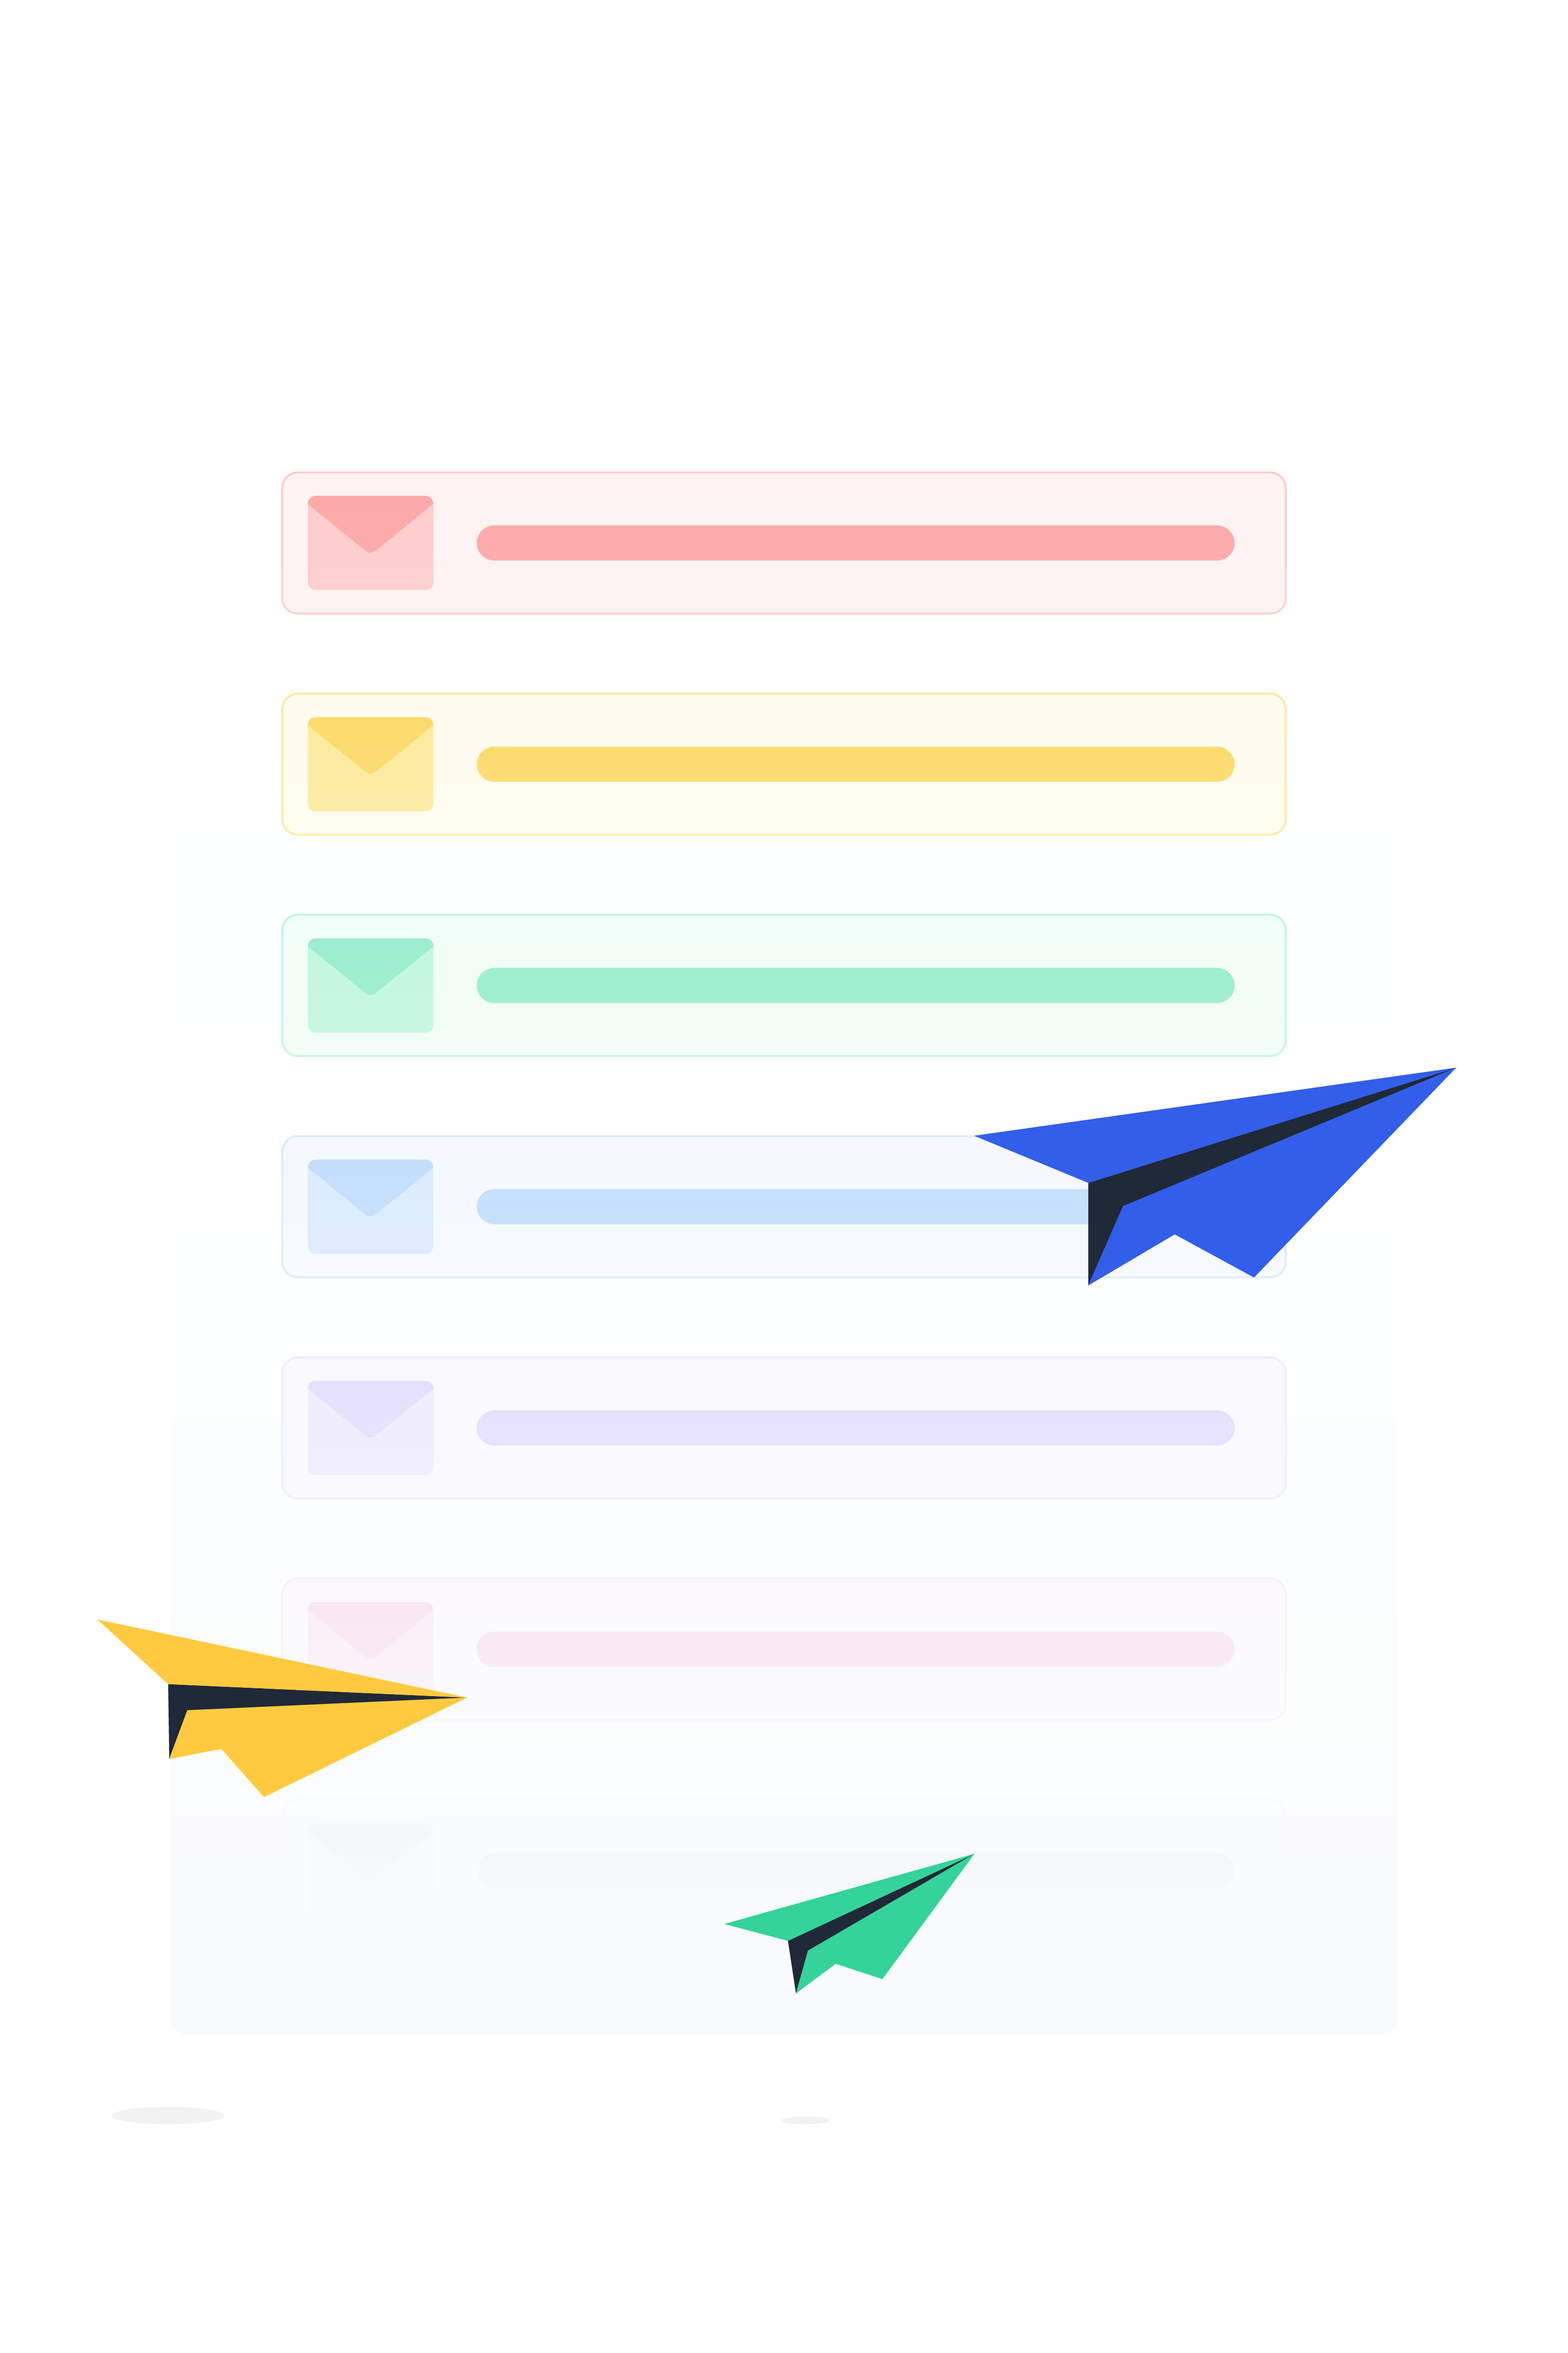
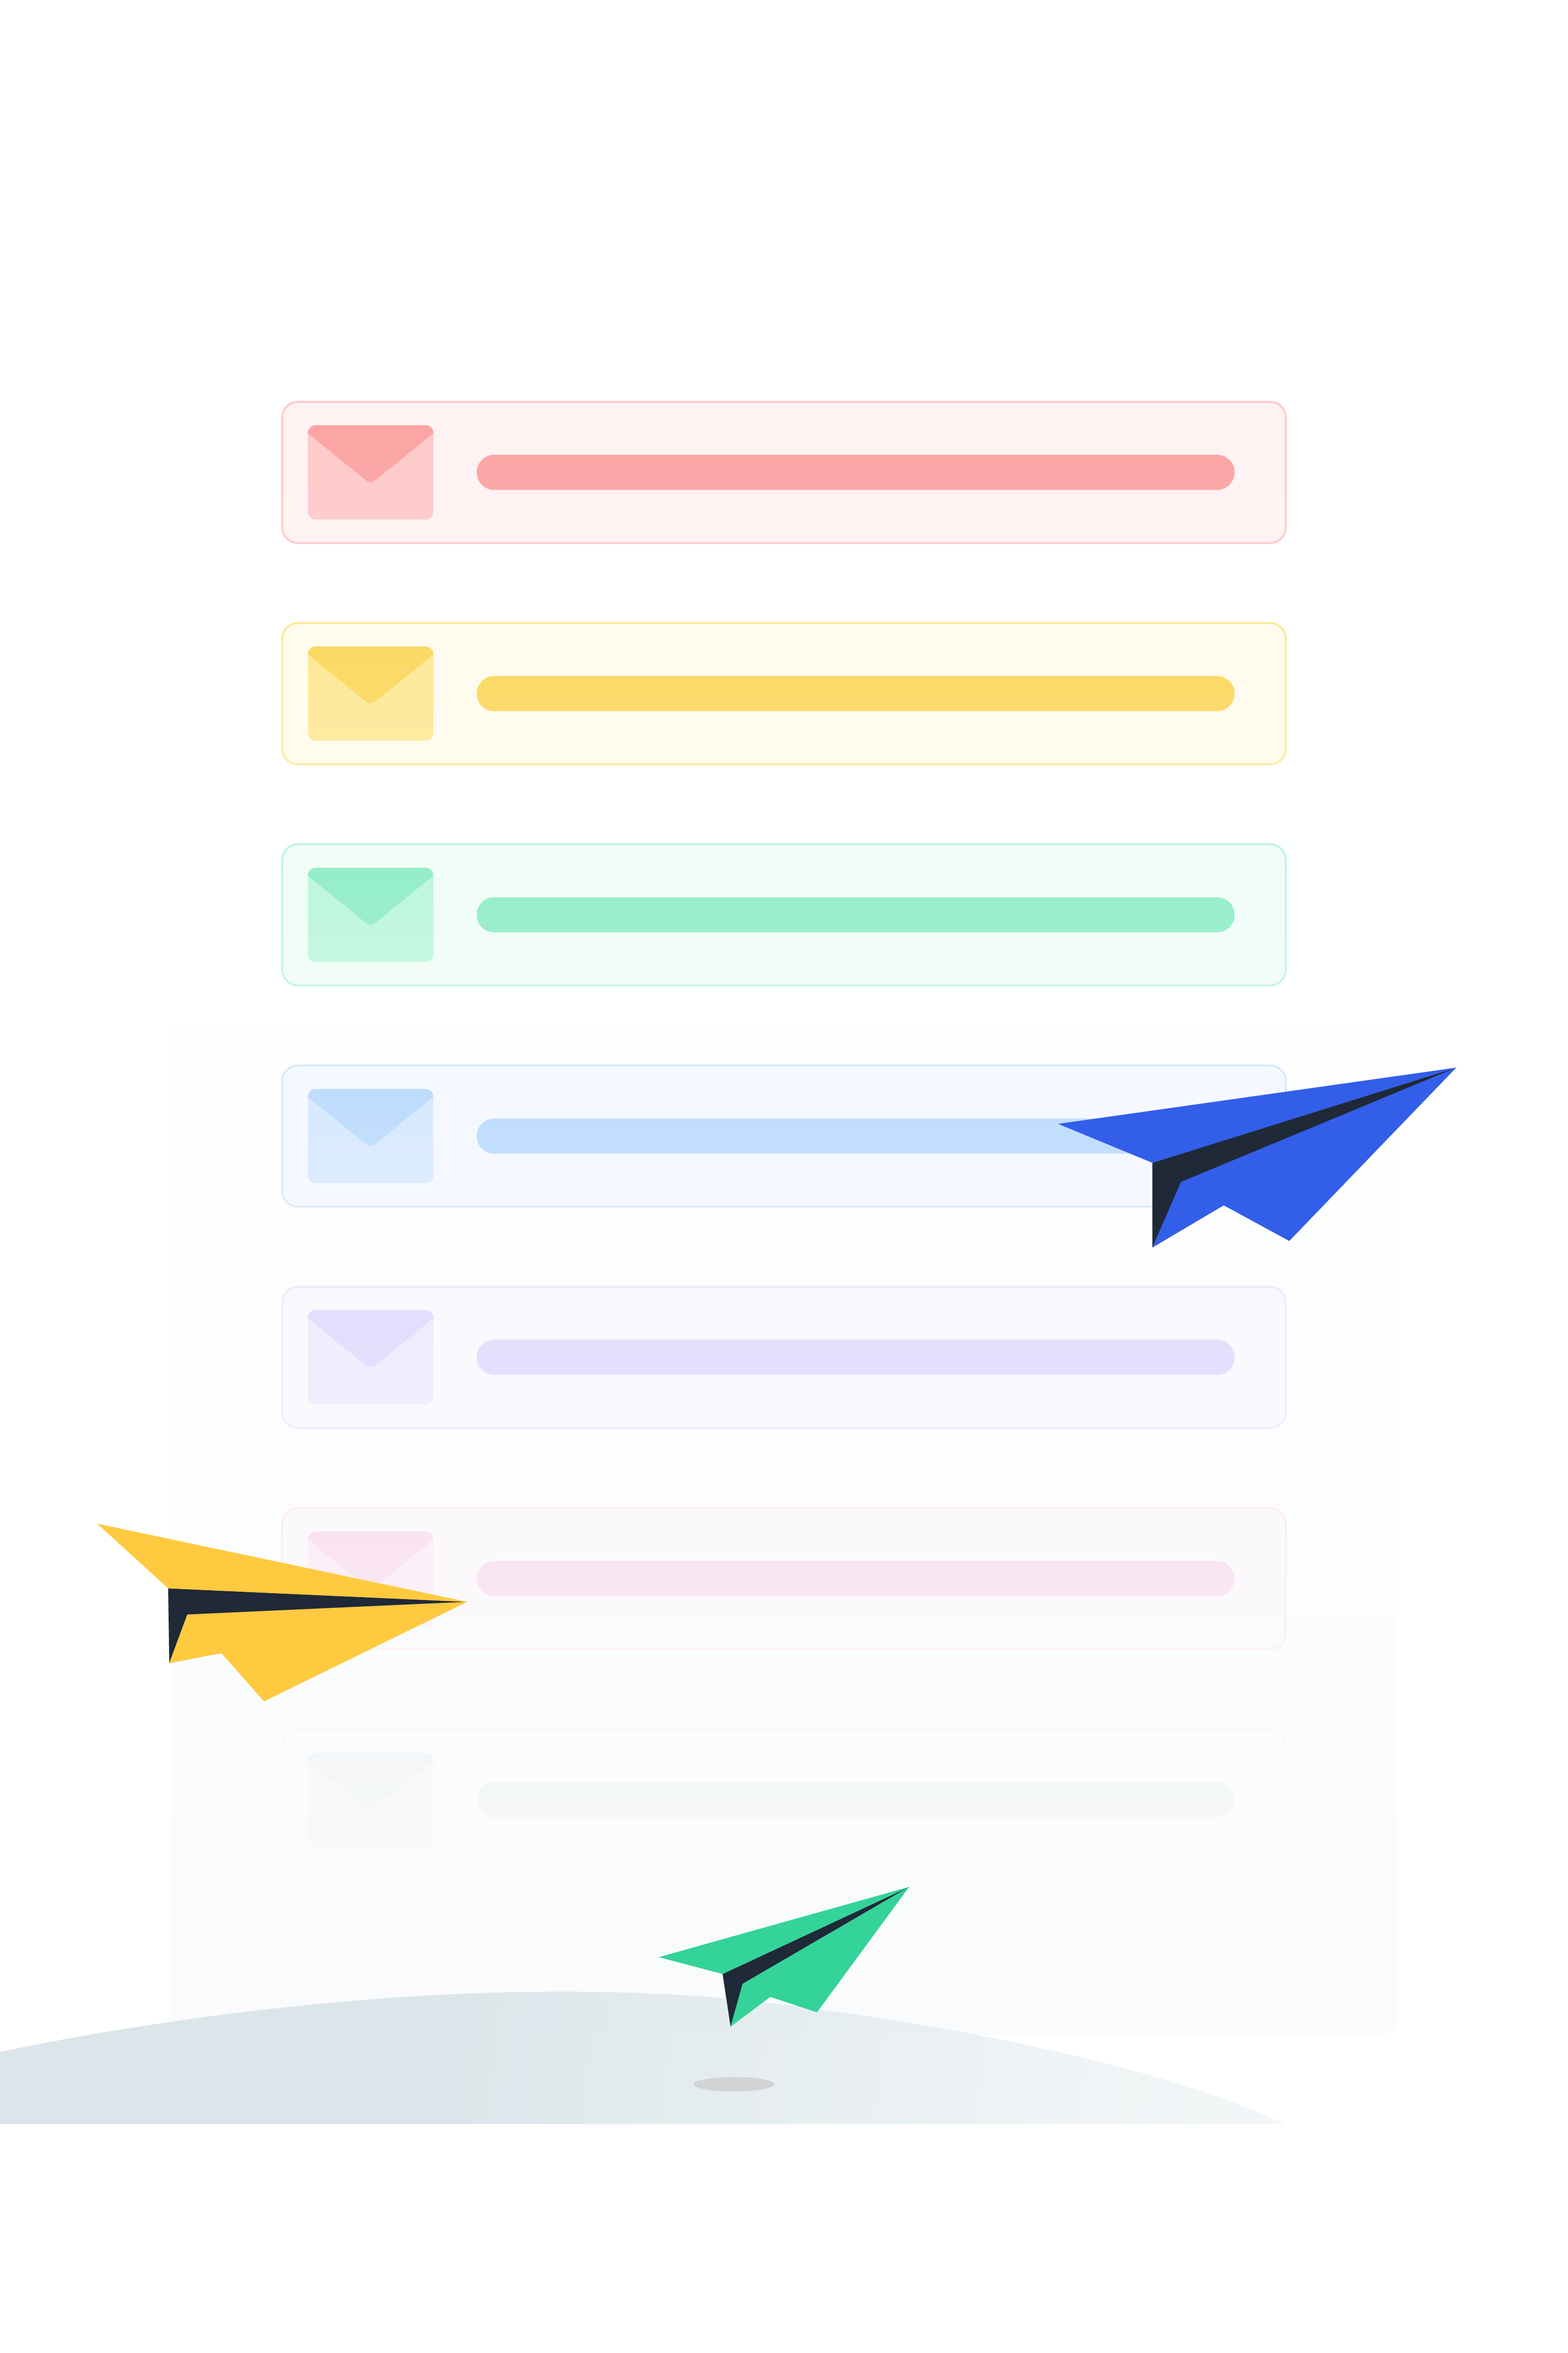
finish the illustrations

diff --git a/reverse-email-lookup.html b/reverse-email-lookup.html
@@ -319,7 +319,7 @@
 
     <!-- WELCOME
     ================================================== -->
-    <section class="pt-8 pb-11 pt-md-9 pb-md-12 py-lg-6 bg-light bg-between border-bottom" style="background-image: url(assets/img/illustrations/reverse-email-left.png), url(illustration_placement_portrait.png);">
+    <section class="pt-8 pb-11 pt-md-9 pb-md-12 py-lg-6 bg-light bg-between border-bottom" style="background-image: url(assets/img/illustrations/reverse-email-left.png), url(assets/img/illustrations/reverse-email-right.png);">
       <div class="container">
         <div class="row justify-content-center">
           <div class="col-12 col-md-10 col-lg-7 text-center" data-aos="fade-up">
